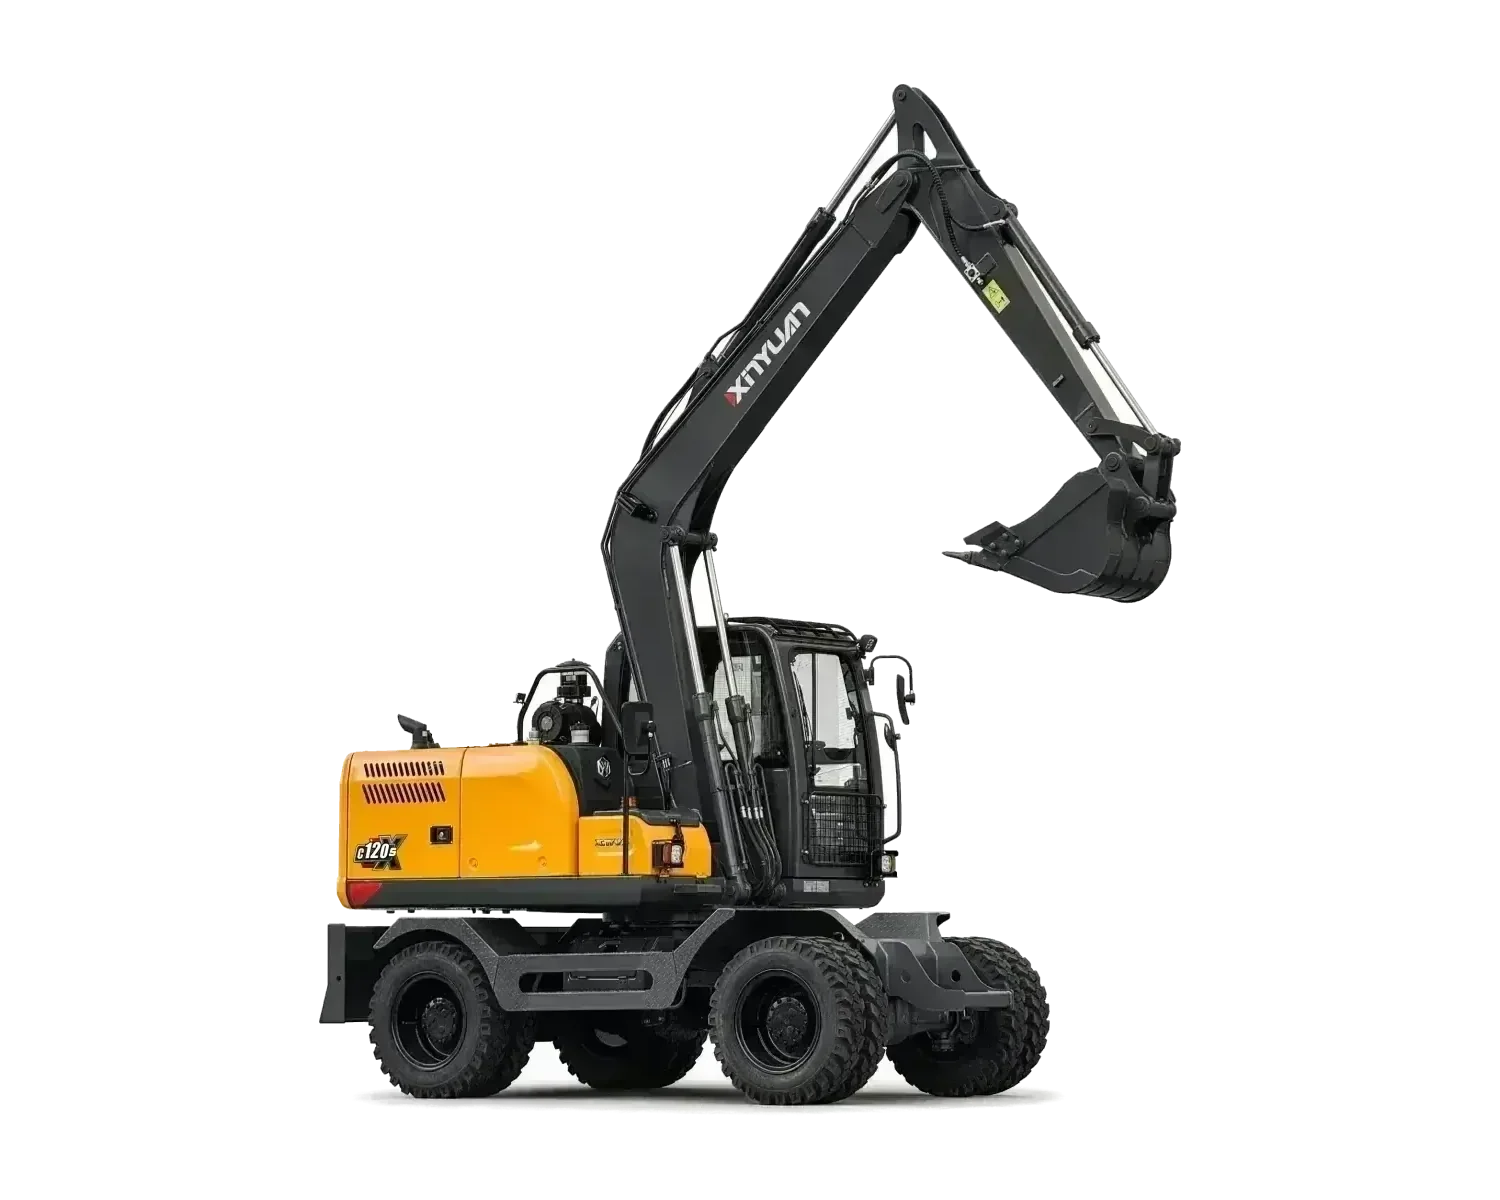
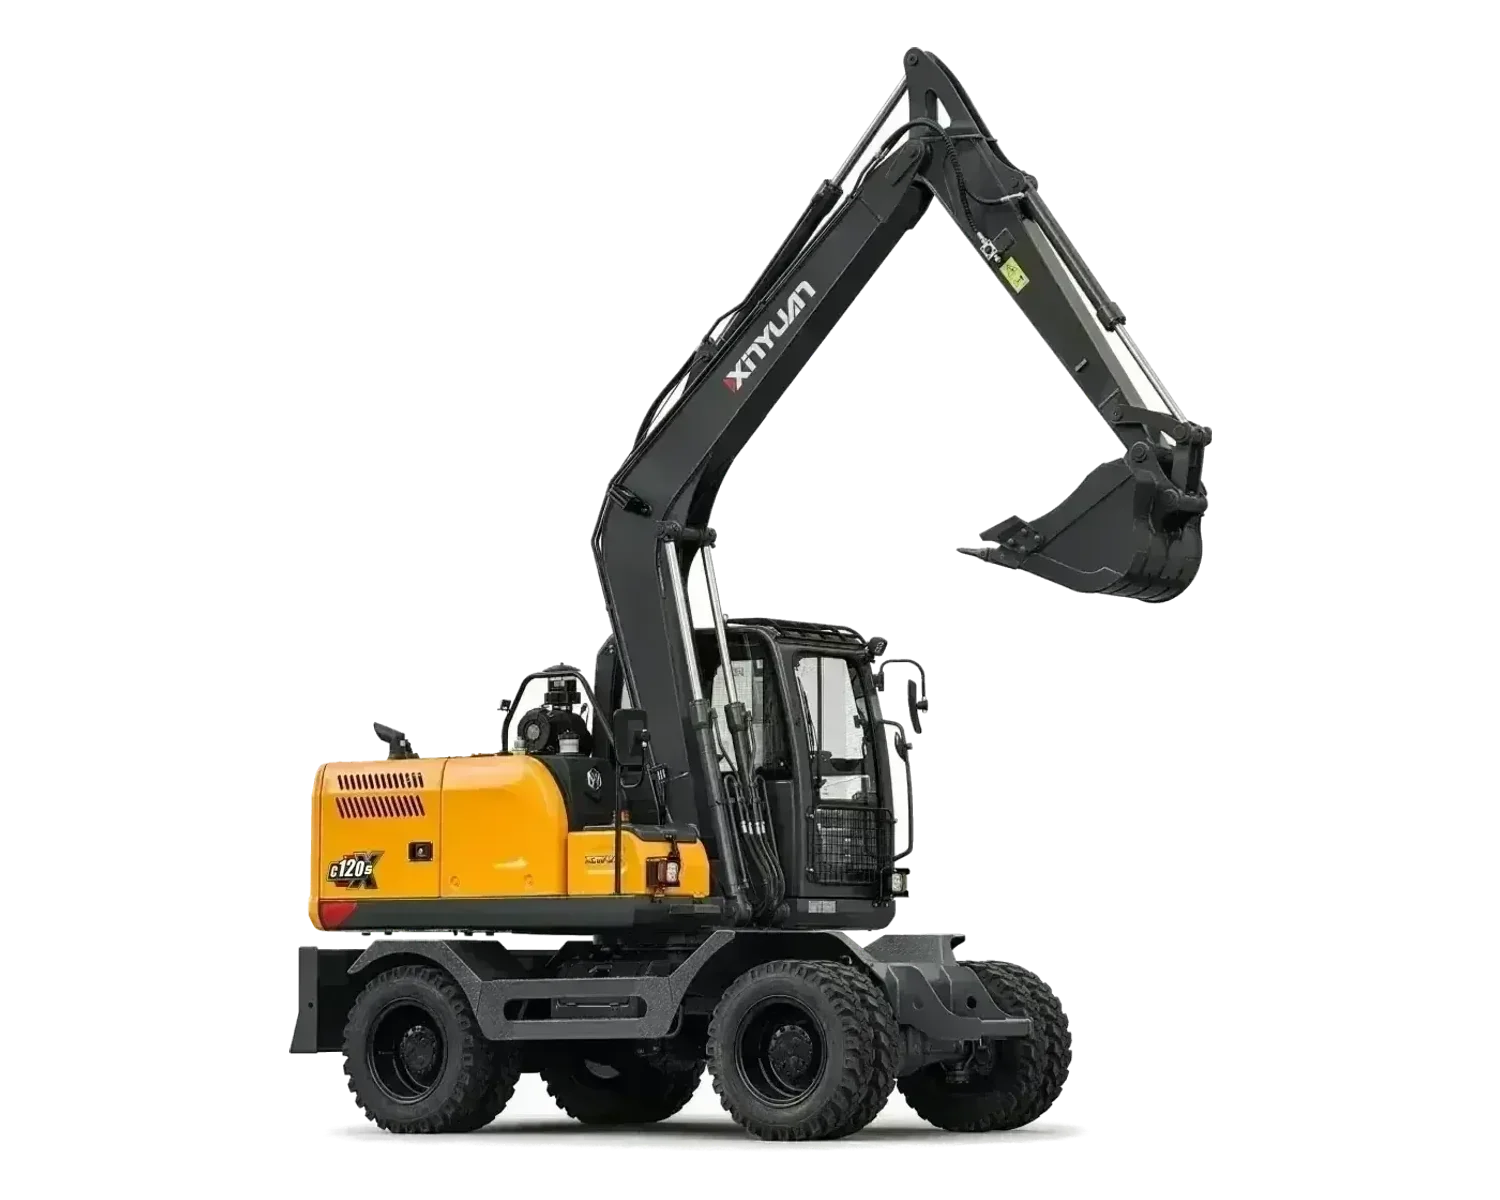
Bigger machines on the catalogue cards
They were rendering small twice over, so this fixes it in both places.

IN THE FILES. The normaliser capped a machine at 86% of the canvas height,
and every upright-boom excavator hit that clamp before it reached the area
target — which is why the range came out matched by HEIGHT rather than by size,
and left a band of empty canvas the card then padded again. At 94% every
machine reaches the area rule instead: the range is equal by area as the rule
always intended, and each file wastes less of itself. The upright machines gain
about 7%; the wide ones were already on the area rule and do not move, which is
the point.

IN THE CARD. The panel is square rather than 5:4. It has to carry the maker and
model above the machine and the ribbon below it, and a landscape frame paid for
both out of the machine's own height. Padding is cut to what it takes to clear
those two, and runs tighter on a phone than on a desktop — at two cards to a
phone screen there is not much to give, and every pixel of padding comes
straight off the machine.

Together the machine renders roughly 40% larger on a desktop card and close to
twice the size on a phone.

Changed region(s): [[0.184, 0.0308, 0.828, 0.9558]]

diff --git a/src/components/ui/EquipmentCard.tsx b/src/components/ui/EquipmentCard.tsx
@@ -54,9 +54,13 @@ export function EquipmentCard({
         className,
       )}
     >
+      {/* SQUARE, NOT 5:4. The panel has to carry the maker and model above the
+          machine and the ribbon below it, and a landscape frame paid for both
+          out of the machine's own height — which is what left the cutouts
+          looking small. A square panel gives the height back. */}
       <div
         className={cn(
-          "relative aspect-[5/4] overflow-hidden",
+          "relative aspect-square overflow-hidden",
           cutout ? "bg-white" : "bg-steel-100",
         )}
       >
@@ -90,10 +94,12 @@ export function EquipmentCard({
           sizes="(min-width: 1280px) 25vw, (min-width: 768px) 33vw, 50vw"
           className={cn(
             "transition-transform duration-700 ease-[cubic-bezier(0.22,1,0.36,1)]",
-            /* Inset so the machine clears the maker and model above it and the
-               ribbon below, rather than running under either. */
+            /* Inset only as far as it takes to clear the maker and model above
+               and the ribbon below. Every pixel of padding here comes straight
+               off the machine, and at two cards to a phone screen there is not
+               much to give — so the phone runs tighter than the desktop. */
             cutout
-              ? "object-contain px-3 pt-8 pb-9 drop-shadow-[0_10px_9px_rgba(0,17,46,0.14)] group-hover:scale-[1.05] md:pt-9 md:pb-10"
+              ? "object-contain px-1.5 pt-7 pb-7 drop-shadow-[0_10px_9px_rgba(0,17,46,0.14)] group-hover:scale-[1.05] md:px-3 md:pt-8 md:pb-9"
               : "object-cover group-hover:scale-[1.04]",
           )}
           style={display.focus ? { objectPosition: display.focus } : undefined}
